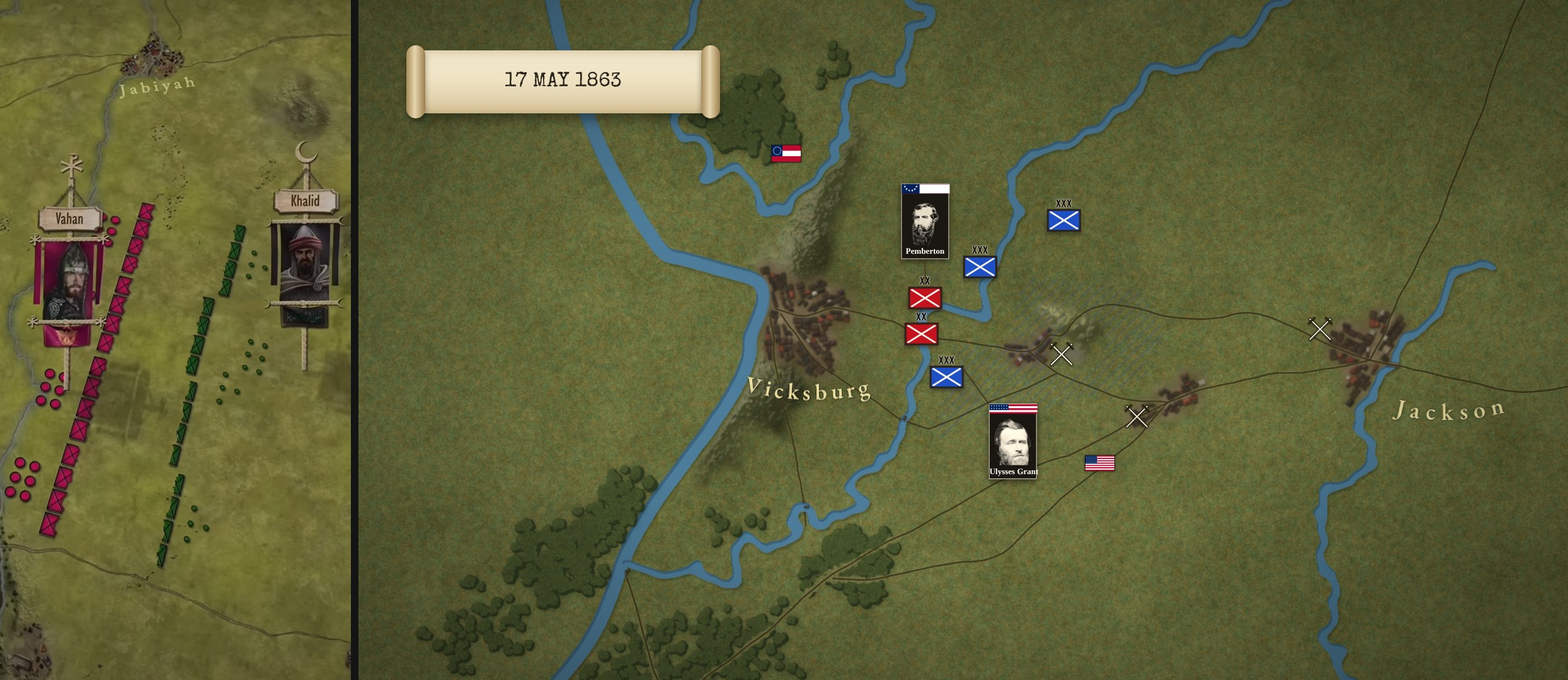
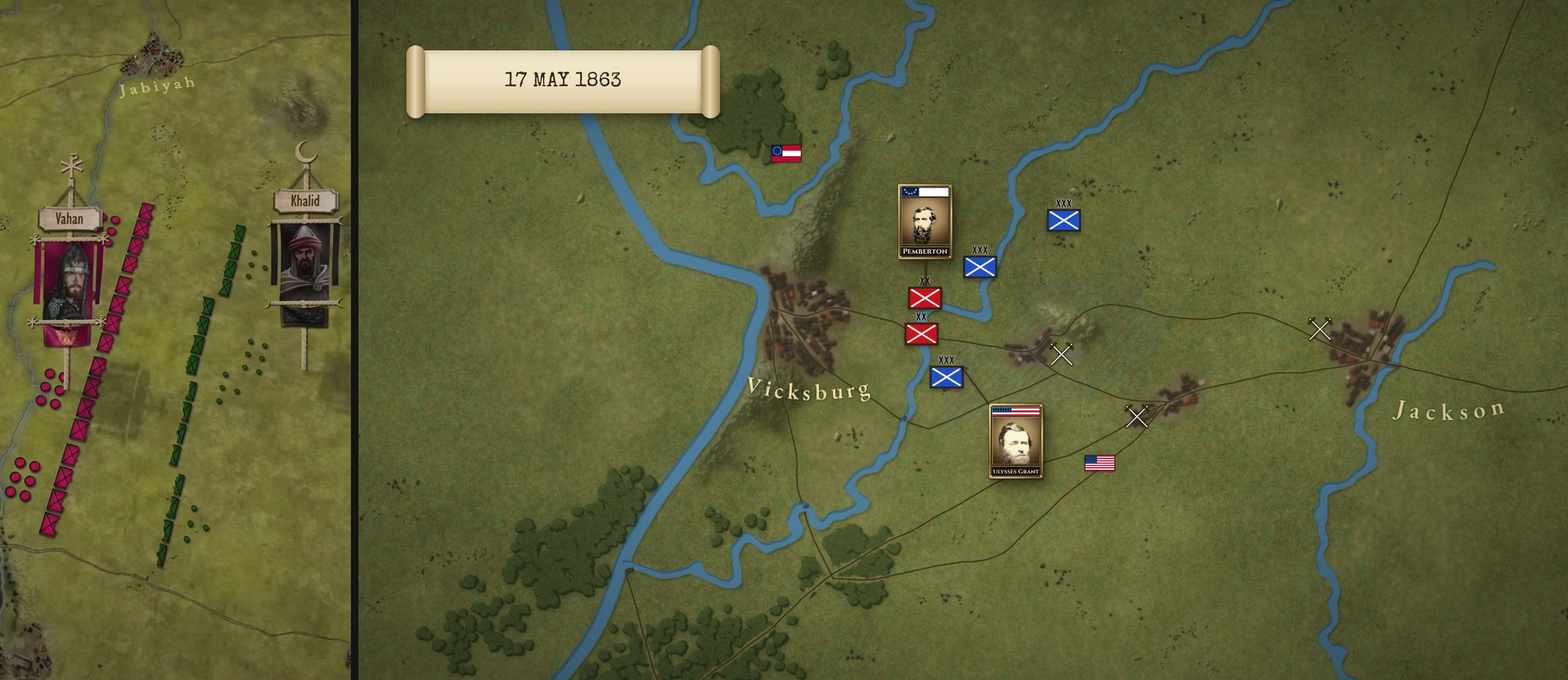
Roads fixed (no dead ends), texture + elegant portraits integrated (s12d_rt)
Claude-Session: https://claude.ai/code/session_011uJnj9PFzMNram5mgUPnoT

Changed region(s): [[0.5569, 0.2444, 0.6187, 0.3972], [0.6187, 0.5806, 0.6806, 0.7028], [0.495, 0.6111, 0.5569, 0.6722]]

diff --git a/research/style_tests/roads_towns/make_body.py b/research/style_tests/roads_towns/make_body.py
@@ -44,6 +44,10 @@ const RTH = [], RTHC = [];
 [["lanes_w", RTH, "relief"], ["lanes_close", RTHC, "relief2"]].forEach(([n, arr, after]) => { const im = document.createElement("img");
   im.src = `assets/rt/${n}___BUILDID__.png`; im.alt = ""; im.style.cssText = "position:absolute;left:0;top:0;width:2880px;height:1620px;pointer-events:none";
   (arr.length ? arr[arr.length - 1] : document.getElementById(after)).after(im); arr.push(im); });
+// ground texture (research/style_tests/roads_towns/texture): above the hills + lanes, under the roads/towns; the close one follows #relief2
+[["texture_w", RTH, "relief"], ["texture_close", RTHC, "relief2"]].forEach(([n, arr, after]) => { const im = document.createElement("img");
+  im.src = `assets/rt/${n}___BUILDID__.png`; im.alt = ""; im.style.cssText = "position:absolute;left:0;top:0;width:2880px;height:1620px;pointer-events:none";
+  (arr.length ? arr[arr.length - 1] : document.getElementById(after)).after(im); arr.push(im); });
 const rtHillSync = () => { const R2 = document.getElementById("relief2"); RTHC.forEach((im) => { im.style.opacity = R2.style.opacity;
   im.style.webkitMaskImage = im.style.maskImage = R2.style.maskImage || "none"; }); };
 CURV.push([{ setAttribute: () => rtHillSync() }, 1]); rtHillSync();
@@ -97,6 +101,8 @@ rep('hatch("assets/media/gn_vick_may16cap_mx.png", T_CH + 0.5, 1.6);', 'hatch("a
 rep('BAT("CHAMPION HILL", CH, T_CH, T_17 + 0.6, 0, -50);', 'BAT("CHAMPION HILL", CH, T_CH, T_17 + 0.6, 0, -50, [1627, 719]);   /* s12d_rt polish: south foot of Champion Hill (~40 px below the lit crest), between the Jackson and Raymond roads */')
 rep('smoke(LL([[32.335, -90.552], [32.33, -90.565], [32.29, -90.56]]), T_CH);', 'smoke([[1627, 719], [1620, 722], [1633, 724]], T_CH);   /* s12d_rt: powder smoke at the battle mark below the hill (it sat on the hill crest and read as a dark hole) */')
 rep('BAT("BIG BLACK", BBR, T_BB, T_EVERY + 0.4, -40, 85, L(32.33, -90.722));', 'BAT("BIG BLACK", BBR, T_BB, T_EVERY + 0.4, -40, 85, L(32.33, -90.722));\n{ const ok = document.getElementById("rt_bb_ok"), bx = document.getElementById("rt_bb_burned"); gsap.set(bx, { autoAlpha: 0 });   /* s12d_rt: the Confederates burn the Big Black bridge */\n  tl.to(bx, { autoAlpha: 1, duration: 0.6 }, T_BB + 0.2); tl.to(ok, { autoAlpha: 0, duration: 0.6 }, T_BB + 0.2); }')
+rep('{ const ph = GW.firstElementChild.querySelectorAll("img")[1]; tl.set(ph, { attr: { src: PHOTO("grant") } }, T_UG - 0.1); }   // the photo revealed ON "Ulysses Grant"\n', '')
+rep('{ const nm = GW.firstElementChild.lastElementChild, n2 = document.createElement("div"); n2.textContent = "Ulysses Grant"; n2.style.cssText = nm.style.cssText + ";position:absolute;left:0;right:0;bottom:0;font-size:13px";\n  GW.firstElementChild.appendChild(n2); gsap.set(n2, { autoAlpha: 0 }); tl.to(nm, { autoAlpha: 0, duration: 0.15 }, T_UG - 0.1); tl.to(n2, { autoAlpha: 1, duration: 0.15 }, T_UG - 0.1);\n  nm.style.visibility = "inherit"; }', 'PC.reveal(GW, PHOTO("grant"), "Ulysses Grant", T_UG - 0.1);   /* s12d_rt: portrait card v2 reveal (research/style_tests/roads_towns/portraits) */')
 src = src.replace("// SCRIPT-12 TEST, scene s12d", "// SCRIPT-12 TEST, scene s12d_rt = COPY of s12d + roads + painted towns (make_body.py in the roads_towns test); original s12d", 1)
 src = src.replace("B.finish();", "window.__RT_T = { T_CH, T_17, T_16, T_BB };\nB.finish();")
 import time

diff --git a/research/style_tests/roads_towns/masks.py b/research/style_tests/roads_towns/masks.py
@@ -1,0 +1,31 @@
+import json, os, sys
+import numpy as np, cv2
+from PIL import Image
+sys.path.insert(0, "/home/user/battle-maps/research/style_tests/roads_towns/hills")
+import make_hill as MH
+Image.MAX_IMAGE_PIXELS = None
+OUT, D = sys.argv[1], sys.argv[2]
+meta = json.load(open(f"{OUT}/rt_meta.json")); cx_ = json.load(open(f"{OUT}/crossings.json")); S = meta["S"]
+A = "/home/user/battle-maps/grant/assets"
+for key, f in (("w", "vicksburg_w"), ("close", "vicksburg_w_close")):
+    base = np.asarray(Image.open(f"{A}/{f}.jpg").convert("RGB")); H, W = base.shape[:2]
+    Image.fromarray(MH.water_mask(base).astype(np.uint8) * 255).save(f"{D}/rivers_{key}.png", optimize=True)
+    lum = cv2.GaussianBlur(base.astype(np.float32).mean(2), (0, 0), 2)
+    Image.fromarray(((lum < 72) & ~MH.water_mask(base)).astype(np.uint8) * 255).save(f"{D}/woods_{key}.png", optimize=True)
+H, W = 3240, 5760
+rd = np.zeros((H, W), np.uint8)
+for r in cx_["roads"]:
+    for p in r["paths"]:
+        cv2.polylines(rd, [np.array([[x * 2, y * 2] for x, y in p], np.int32)], False, 255, 1)
+roads = cv2.distanceTransform((rd < 128).astype(np.uint8), cv2.DIST_L2, 5) < 12          # road + lane corridor (~12 image px each side)
+for c in cx_["crossings"]:
+    cv2.circle(roads.view(np.uint8), (int(c["x"] * 2), int(c["y"] * 2)), 30, 1, -1)       # bridges, ferries, landings
+Image.fromarray(roads.astype(np.uint8) * 255).save(f"{D}/roads.png", optimize=True)
+tw = np.zeros((H, W), np.uint8); lb_ = np.zeros((H, W), np.uint8)
+for t in meta["towns"].values():
+    c, R = t["c"], t["R_u"] / S
+    cv2.circle(tw, (int(c[0] * 2), int(c[1] * 2)), int(2 * R * 1.5), 255, -1)
+    lb = t["label"]; x0, y0 = c[0] - lb["ax"] / S, c[1] - lb["ay"] / S
+    cv2.rectangle(lb_, (int(x0 * 2 - 20), int(y0 * 2 - 20)), (int((x0 + lb["w"] / S) * 2 + 20), int((y0 + lb["h"] / S) * 2 + 20)), 255, -1)
+Image.fromarray(tw).save(f"{D}/towns.png", optimize=True); Image.fromarray(lb_).save(f"{D}/labels.png", optimize=True)
+print("ok")

diff --git a/research/style_tests/roads_towns/crossings.py b/research/style_tests/roads_towns/crossings.py
@@ -181,11 +181,11 @@ def bridge(cr, target=None, burned=False):
     stamp((cr["x"], cr["y"]), fn, R, target)
 
 
-def boat_and_landings(cr, banks):
+def boat_and_landings(cr, banks, sc=1.0):
     a = math.radians(cr["ang"])
 
     def fn_boat(im, d, cx, cy, k):
-        P = lambda x, y: rot(x * k, y * k, a + math.pi / 2, cx, cy)   # flatboat lies across the road line, beside it
+        P = lambda x, y: rot(x * k * sc, y * k * sc, a + math.pi / 2, cx, cy)   # flatboat lies across the road line, beside it
         # tiny pale wake on the downstream side + soft shadow
         wk = Image.new("RGBA", im.size, (0, 0, 0, 0)); ImageDraw.Draw(wk).polygon([P(4.6, -1.6), P(8.5, -2.6), P(8.5, 2.6), P(4.6, 1.6)], fill=(200, 214, 220, 60))
         im.alpha_composite(wk.filter(ImageFilter.GaussianBlur(1.0 * k)))
@@ -207,7 +207,7 @@ def boat_and_landings(cr, banks):
     for b in banks:
         stamp(b, fn_land, 8)
     nx, ny = -math.sin(a), math.cos(a)
-    stamp((cr["x"] + nx * 2.4, cr["y"] + ny * 2.4), fn_boat, 12)
+    stamp((cr["x"] + nx * 2.4 * sc, cr["y"] + ny * 2.4 * sc), fn_boat, 12 * sc)
 
 
 for cr in crossings:
@@ -220,7 +220,7 @@ for cr in crossings:
         a = math.radians(cr["ang"]); dx, dy = math.cos(a), math.sin(a); h = cr["w"] / 2
         boat_and_landings(cr, [(cr["x"] - dx * (h + 0.8), cr["y"] - dy * (h + 0.8)), (cr["x"] + dx * (h + 0.8), cr["y"] + dy * (h + 0.8))])
     else:   # landing on the Mississippi bank + a moored boat
-        boat_and_landings(cr, [cr["bank"]])
+        boat_and_landings(cr, [cr["bank"]], sc=1.6)   # owner: the river landing must read as a landing (bigger moored boat)
 ov.save(os.path.join(OUT, "bridges.png"), optimize=True)
 ov_bb.save(os.path.join(OUT, "bb_ok.png"), optimize=True)
 ov_bbx.save(os.path.join(OUT, "bb_burned.png"), optimize=True)

diff --git a/research/style_tests/roads_towns/road_fix.py b/research/style_tests/roads_towns/road_fix.py
@@ -24,6 +24,10 @@ def fixed_roads():
             P = [(x + dx * max(0, 1 - c / (0.75 * Lr)) ** 1.5, y + dy * max(0, 1 - c / (0.75 * Lr)) ** 1.5) for (x, y), c in zip(P, cum)]
         if r["id"] == "baldwins_ferry_road":   # polish: carry the road on east from the ferry to join the Raymond road (no dangling end)
             P = [(1621.5, 733.4), (1596.0, 745.0), (1568.0, 758.0), (1540.0, 772.0), (1516.0, 781.0)] + P
+        if r["id"] == "halls_ferry_road":   # owner: no dead ends - carry the road south from the ferry to the Rocky Springs junction
+            P = [(1436.0, 906.0), (1428.0, 890.0), (1420.0, 873.0), (1415.0, 858.0)] + P
+        if r["id"] == "port_gibson_natchez":   # owner: no dead ends - run on to the map edge (Natchez lies off the map)
+            P = P + [(1013.0, 1420.0), (1019.0, 1520.0), (1022.0, 1625.0)]   # south, on the east bank of the creek
         Q = []
         for x, y in P:
             w = math.exp(-((x - ED0[0]) ** 2 + (y - ED0[1]) ** 2) / (34.0 ** 2))

diff --git a/research/style_tests/roads_towns/make_kit.py b/research/style_tests/roads_towns/make_kit.py
@@ -1,0 +1,7 @@
+"""test copy of the kit for s12d_rt ONLY (grant/tools/vx_rt_kit.js): vx_kit.js with pinPortrait swapped for portrait card v2. The shared kit is never edited."""
+import re
+k = open("/home/user/battle-maps/grant/tools/vx_kit.js").read()
+i0 = k.index("const pinPortrait = ")
+i1 = k.index("return w; };", i0) + len("return w; };")
+pc = open("/home/user/battle-maps/research/style_tests/roads_towns/portraits/portrait_card.js").read()
+open("/home/user/battle-maps/grant/tools/vx_rt_kit.js", "w").write("// TEST COPY for s12d_rt only (make_kit.py): vx_kit.js + portrait card v2\n" + k[:i0] + pc + k[i1:])
